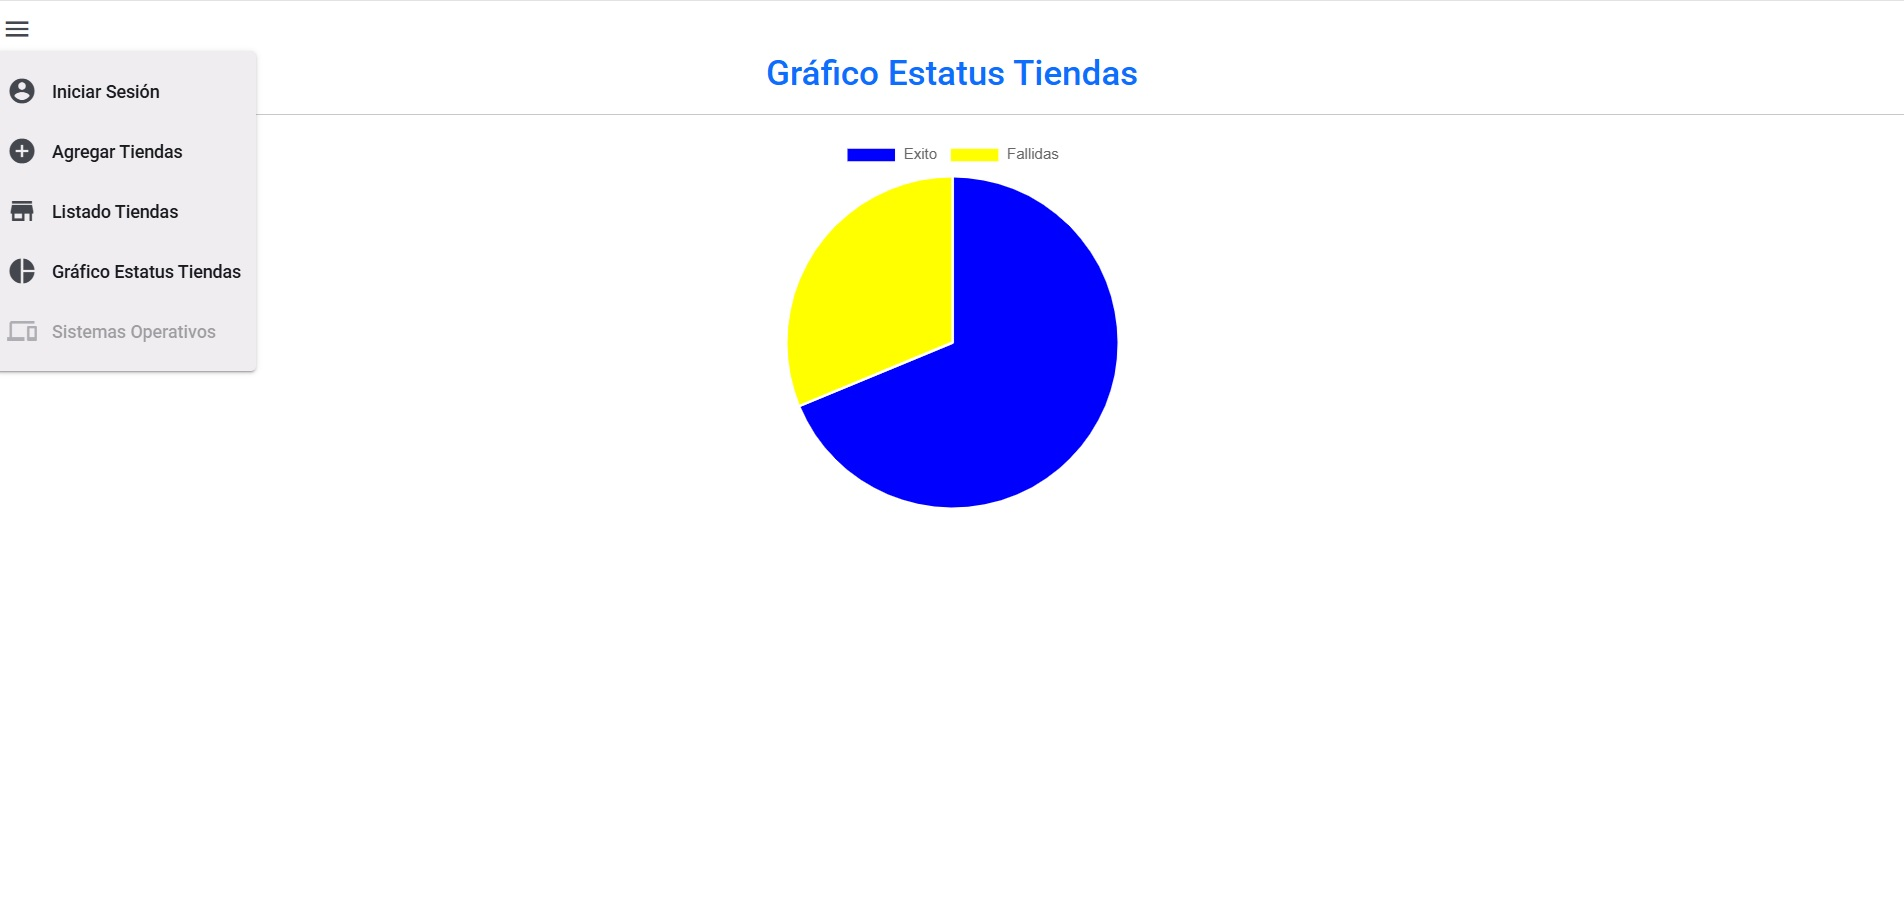
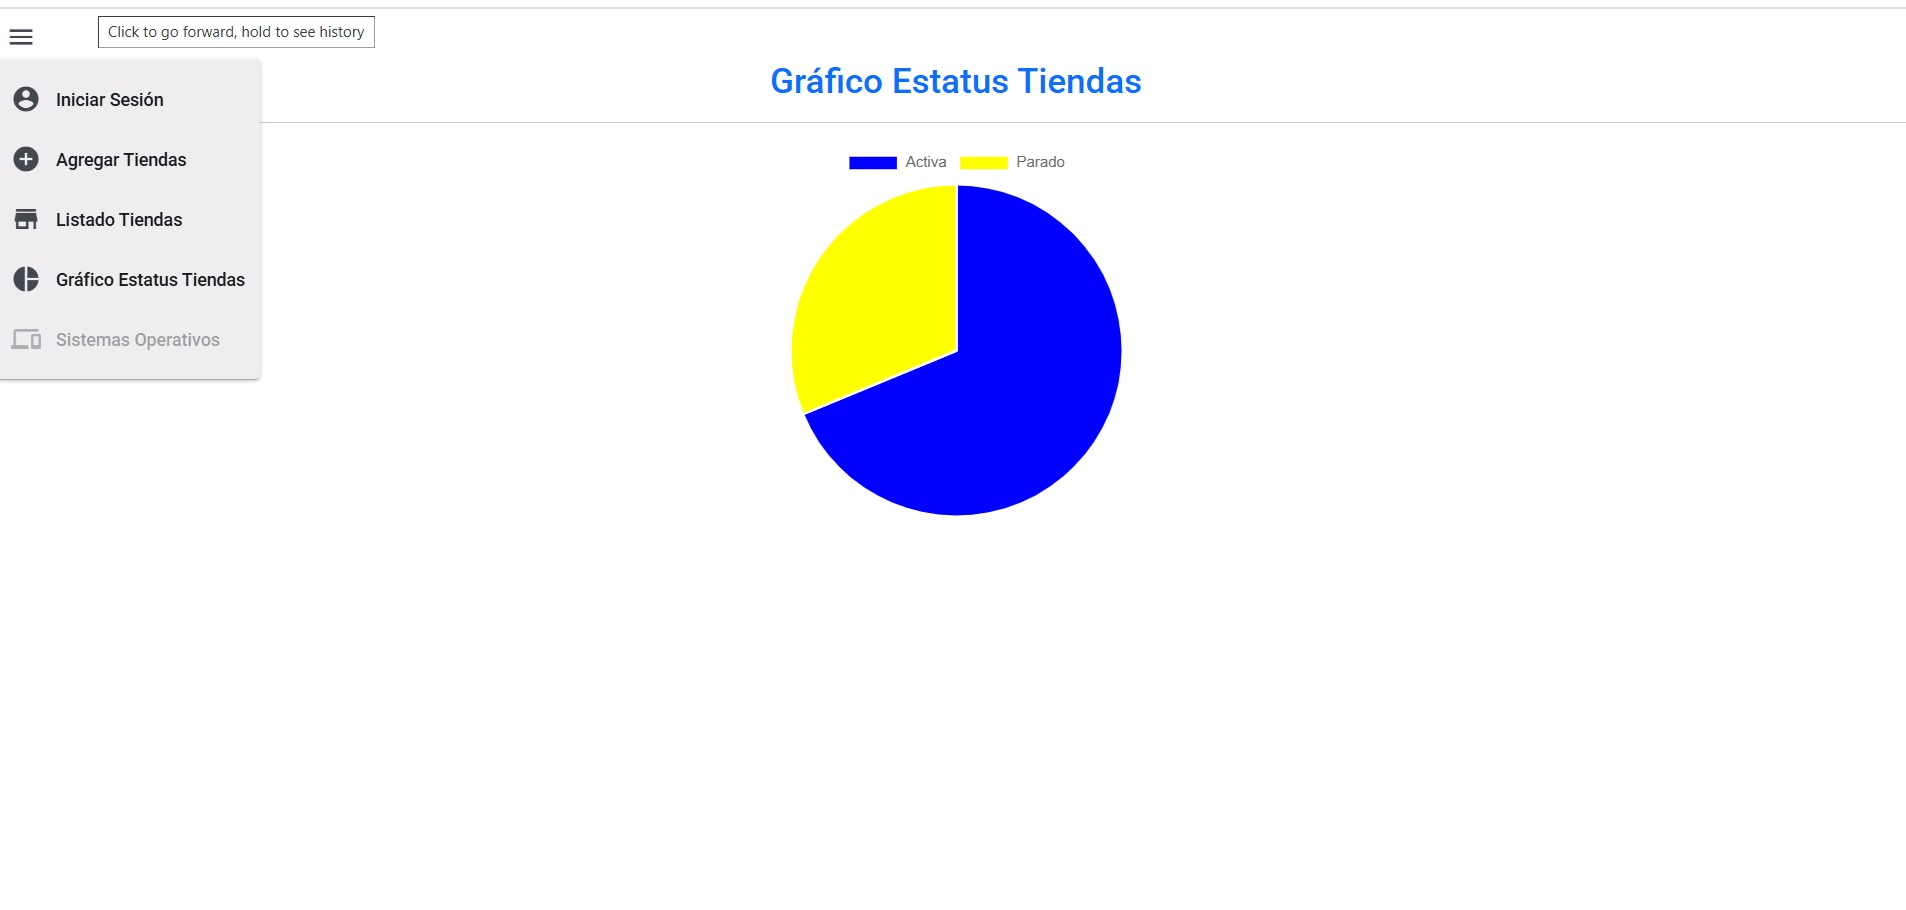
Angular-Web-API.NET-BD-PostgreSQL

diff --git a/Angular/Angular2/src/app/tiendas/tiendas.component.html b/Angular/Angular2/src/app/tiendas/tiendas.component.html
@@ -46,22 +46,22 @@
     
     <div class="form-group">
       <label for="nro" matTooltip="Número Items" matTooltipPosition="right">Nro.</label>
-      <input type="text" id="nro" readonly class="form-control mr-2" aria-label="nro" aria-describedby="basic-addon1" [ngClass]="{'highlight': selectedRow.ORDERCUST.toUpperCase() === 'FALLIDAS'}" [(ngModel)]="selectedRow.ECOMMID">
+      <input type="text" id="nro" readonly class="form-control mr-2" aria-label="nro" aria-describedby="basic-addon1" [ngClass]="{'highlight': selectedRow.ORDERCUST.toUpperCase() === 'PARADO'}" [(ngModel)]="selectedRow.ECOMMID">
     </div>
 
     <div class="form-group">
       <label for="ecommname" matTooltip="Nombre Tienda" matTooltipPosition="right">Nombre de Tienda</label>
-      <input type="text" id="ecommname" readonly class="form-control mr-2" aria-label="ecommname" aria-describedby="basic-addon1" [ngClass]="{'highlight': selectedRow.ORDERCUST.toUpperCase() === 'FALLIDAS'}" [(ngModel)]="selectedRow.ECOMMNAME">
+      <input type="text" id="ecommname" readonly class="form-control mr-2" aria-label="ecommname" aria-describedby="basic-addon1" [ngClass]="{'highlight': selectedRow.ORDERCUST.toUpperCase() === 'PARADO'}" [(ngModel)]="selectedRow.ECOMMNAME">
     </div>
 
     <div class="form-group">
       <label for="ordercust" matTooltip="Estatus" matTooltipPosition="right">Estatus</label>
-      <input type="text" id="ordercust" readonly class="form-control mr-2" aria-label="ordercust" aria-describedby="basic-addon1" [ngClass]="{'highlight': selectedRow.ORDERCUST.toUpperCase() === 'FALLIDAS'}" [(ngModel)]="selectedRow.ORDERCUST">
+      <input type="text" id="ordercust" readonly class="form-control mr-2" aria-label="ordercust" aria-describedby="basic-addon1" [ngClass]="{'highlight': selectedRow.ORDERCUST.toUpperCase() === 'PARADO'}" [(ngModel)]="selectedRow.ORDERCUST">
     </div>
 
     <div class="form-group">
       <label for="createddaterp" matTooltip="Fecha Creación" matTooltipPosition="right">Fecha</label>
-      <input type="text" id="createddaterp" readonly class="form-control mr-2" aria-label="createddaterp" aria-describedby="basic-addon1" [ngClass]="{'highlight': selectedRow.ORDERCUST.toUpperCase() === 'FALLIDAS'}" [(ngModel)]="selectedRow.CREATEDDATERP">
+      <input type="text" id="createddaterp" readonly class="form-control mr-2" aria-label="createddaterp" aria-describedby="basic-addon1" [ngClass]="{'highlight': selectedRow.ORDERCUST.toUpperCase() === 'PARADO'}" [(ngModel)]="selectedRow.CREATEDDATERP">
     </div>
 
   </div>
@@ -73,22 +73,22 @@
 
           <ng-container matColumnDef="ECOMMID">
             <th mat-header-cell *matHeaderCellDef mat-sort-header="ECOMMID"> Nro. </th>
-            <td id="num" mat-cell *matCellDef="let element" (click)="selectRow(element)" [ngClass]="{'highlight': element.ORDERCUST.toUpperCase() === 'FALLIDAS'}"> {{element.ECOMMID}} </td>
+            <td id="num" mat-cell *matCellDef="let element" (click)="selectRow(element)" [ngClass]="{'highlight': element.ORDERCUST.toUpperCase() === 'PARADO'}"> {{element.ECOMMID}} </td>
           </ng-container>
         
           <ng-container matColumnDef="ECOMMNAME">
             <th mat-header-cell *matHeaderCellDef mat-sort-header="ECOMMNAME"> Nombre de Tienda </th>
-            <td mat-cell *matCellDef="let element" (click)="selectRow(element)" [ngClass]="{'highlight': element.ORDERCUST.toUpperCase() === 'FALLIDAS'}"> {{element.ECOMMNAME}} </td>
+            <td mat-cell *matCellDef="let element" (click)="selectRow(element)" [ngClass]="{'highlight': element.ORDERCUST.toUpperCase() === 'PARADO'}"> {{element.ECOMMNAME}} </td>
           </ng-container>
         
           <ng-container matColumnDef="ORDERCUST">
             <th mat-header-cell *matHeaderCellDef mat-sort-header="ORDERCUST"> Estatus </th>
-            <td mat-cell *matCellDef="let element" (click)="selectRow(element)" [ngClass]="{'highlight': element.ORDERCUST.toUpperCase() === 'FALLIDAS'}"> {{element.ORDERCUST}} </td>
+            <td mat-cell *matCellDef="let element" (click)="selectRow(element)" [ngClass]="{'highlight': element.ORDERCUST.toUpperCase() === 'PARADO'}"> {{element.ORDERCUST}} </td>
           </ng-container>
         
           <ng-container matColumnDef="CREATEDDATERP">
             <th mat-header-cell *matHeaderCellDef mat-sort-header="CREATEDDATERP"> Fecha </th>
-            <td mat-cell *matCellDef="let element" (click)="selectRow(element)" [ngClass]="{'highlight': element.ORDERCUST.toUpperCase() === 'FALLIDAS'}"> {{element.CREATEDDATERP}} </td>
+            <td mat-cell *matCellDef="let element" (click)="selectRow(element)" [ngClass]="{'highlight': element.ORDERCUST.toUpperCase() === 'PARADO'}"> {{element.CREATEDDATERP}} </td>
           </ng-container>
           
           <tr mat-header-row *matHeaderRowDef="displayedColumns"></tr>

diff --git a/Angular/Angular2/src/app/pie-chart/pie-chart.component.ts b/Angular/Angular2/src/app/pie-chart/pie-chart.component.ts
@@ -13,8 +13,8 @@ import { Router } from '@angular/router';
 })
 export class PieChartComponent {
   title = 'Gráfico Estatus Tiendas';
-  exito: number = 0;
-  fallida: number = 0;
+  activa: number = 0;
+  parado: number = 0;
   constructor(private apiService: ApiService, private router: Router) { }
 
   ngOnInit() {
@@ -25,10 +25,10 @@ export class PieChartComponent {
       next: data => {
         for (let i = 0; i < data.length; i++) {
           let status = data[i].ORDERCUST.toUpperCase();
-          if (status === 'EXITO') {
-            this.exito++;
+          if (status === 'ACTIVA') {
+            this.activa++;
           } else {
-            this.fallida++;
+            this.parado++;
           }
         }
         this.crearGrafico();
@@ -48,9 +48,9 @@ export class PieChartComponent {
     new Chart('pieChart', {
       type: 'pie',
       data: {
-        labels: ['Exito', 'Fallidas'],
+        labels: ['Activa', 'Parado'],
         datasets: [{
-          data: [this.exito, this.fallida],
+          data: [this.activa, this.parado],
           backgroundColor: ['blue', 'yellow']
         }]
       }

diff --git a/Angular/Angular2/src/app/agregar-tiendas/agregar-tiendas.component.html b/Angular/Angular2/src/app/agregar-tiendas/agregar-tiendas.component.html
@@ -15,8 +15,8 @@
             <mat-form-field>
                 <mat-label>Estatus</mat-label>
                 <mat-select id="status" [(ngModel)]="status" name="status">
-                    <mat-option value="Exito">Éxito</mat-option>
-                    <mat-option value="Fallidas">Fallidas</mat-option>
+                    <mat-option value="Activa">Activa</mat-option>
+                    <mat-option value="Parado">Parado</mat-option>
                 </mat-select>
             </mat-form-field>
 

diff --git a/Angular/Angular2/README.md b/Angular/Angular2/README.md
@@ -1,14 +1,20 @@
-# Inicio de Sesion
-
-Iniciar Sesion al Sistema
+# Inicio de Sesión
+Iniciar Sesión al Sistema, colocando correo y contraseña
 
 ## Development server
-
 ![Login](https://github.com/pmbaldac/Angular-Web-API.NET-BD-PostgreSQL/blob/main/Angular/Angular2/ruta/Login.jpg?raw=true)
 
-# Angular2
+# Listar Tiendas
+Listar tiendas en una grilla (filtri y paginación)
+## Development server
 ![Listado_Tiendas](https://github.com/pmbaldac/Angular-Web-API.NET-BD-PostgreSQL/blob/main/Angular/Angular2/ruta/Listado%20Tiendas.jpg?raw=true)
-# Angular2
+
+# Agregar Tiendas
+Agregar nuevas tiendas
+## Development server
 ![Agregar Tiendas](https://github.com/pmbaldac/Angular-Web-API.NET-BD-PostgreSQL/blob/main/Angular/Angular2/ruta/Agregar%20Tiendas.jpg?raw=true)
-# Angular2
+
+# Grafico de tiendas por estatus
+Mostrar gráfico tipo torta, donde se indica el estatus de la tienda (Activa - Inactiva)
+## Development server
 ![Agregar Tiendas](https://github.com/pmbaldac/Angular-Web-API.NET-BD-PostgreSQL/blob/main/Angular/Angular2/ruta/Grafico%20Tiendas.jpg?raw=true)
